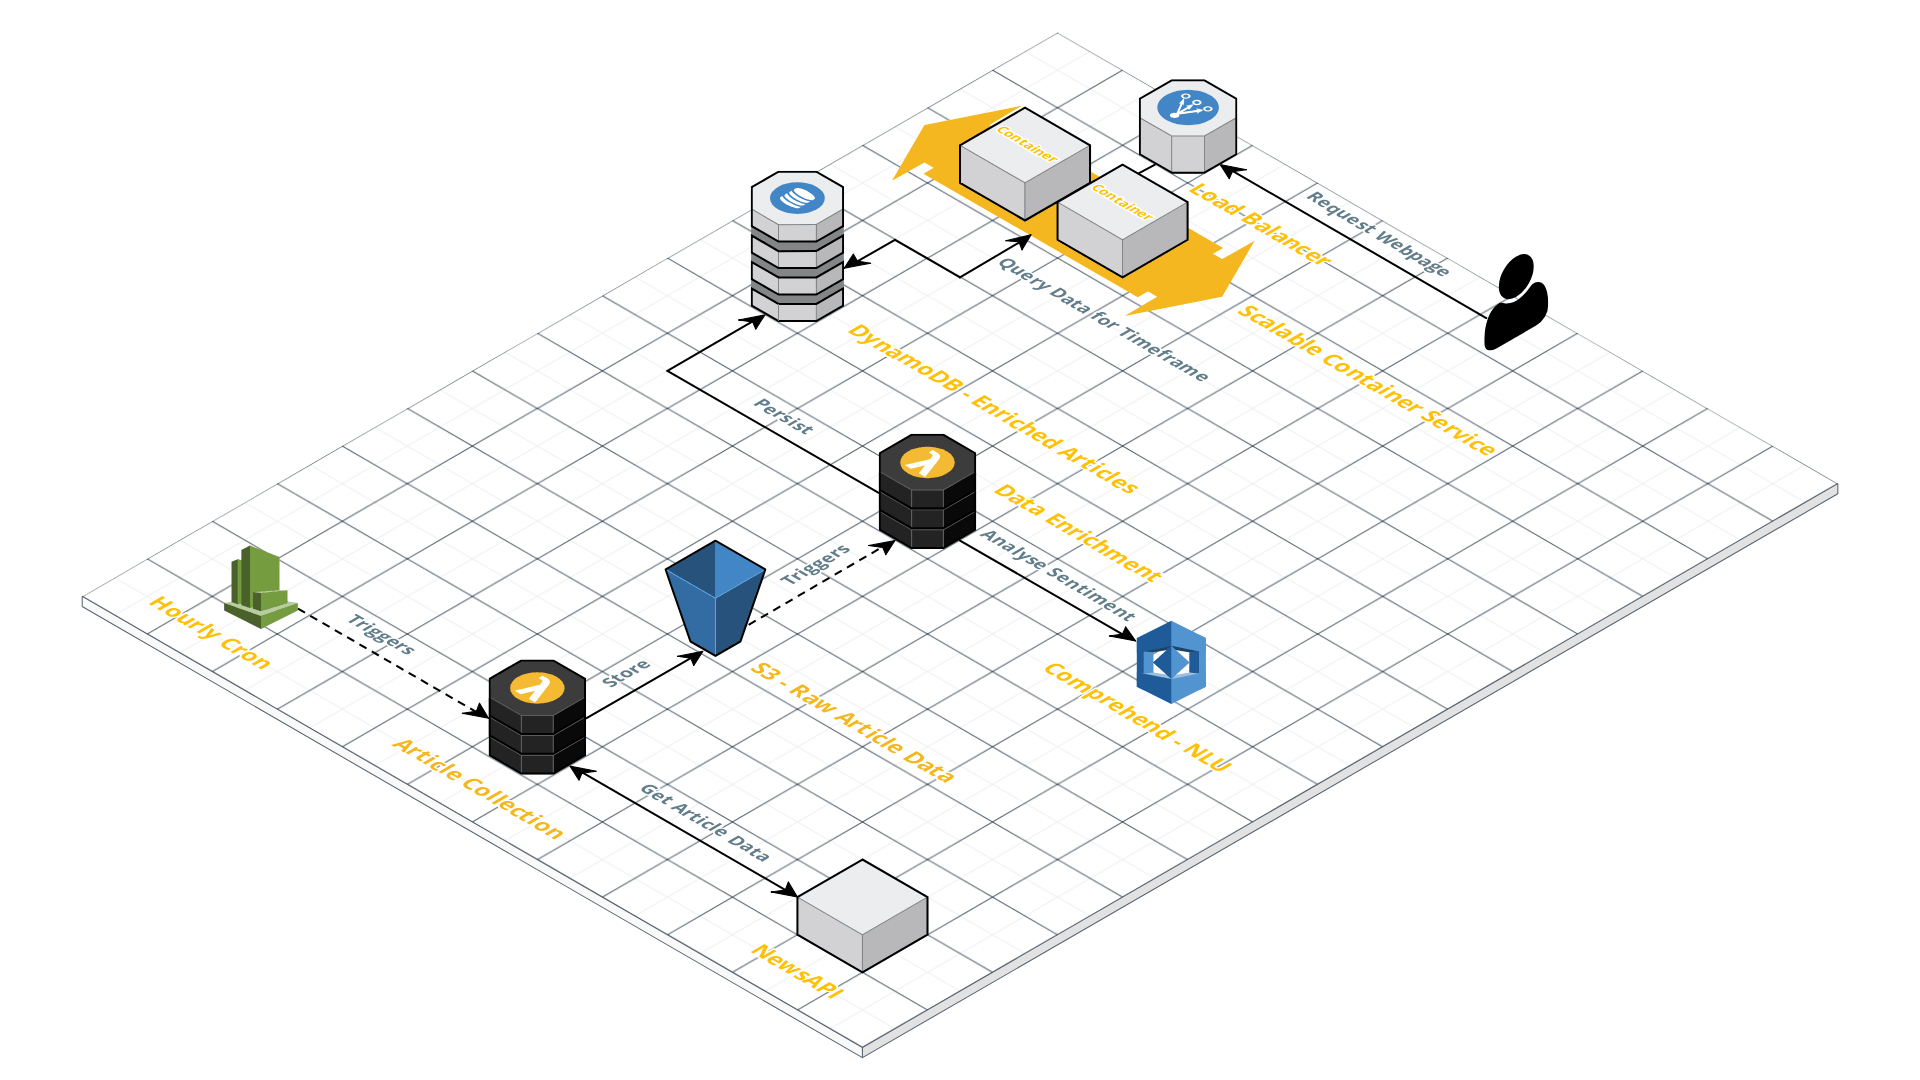
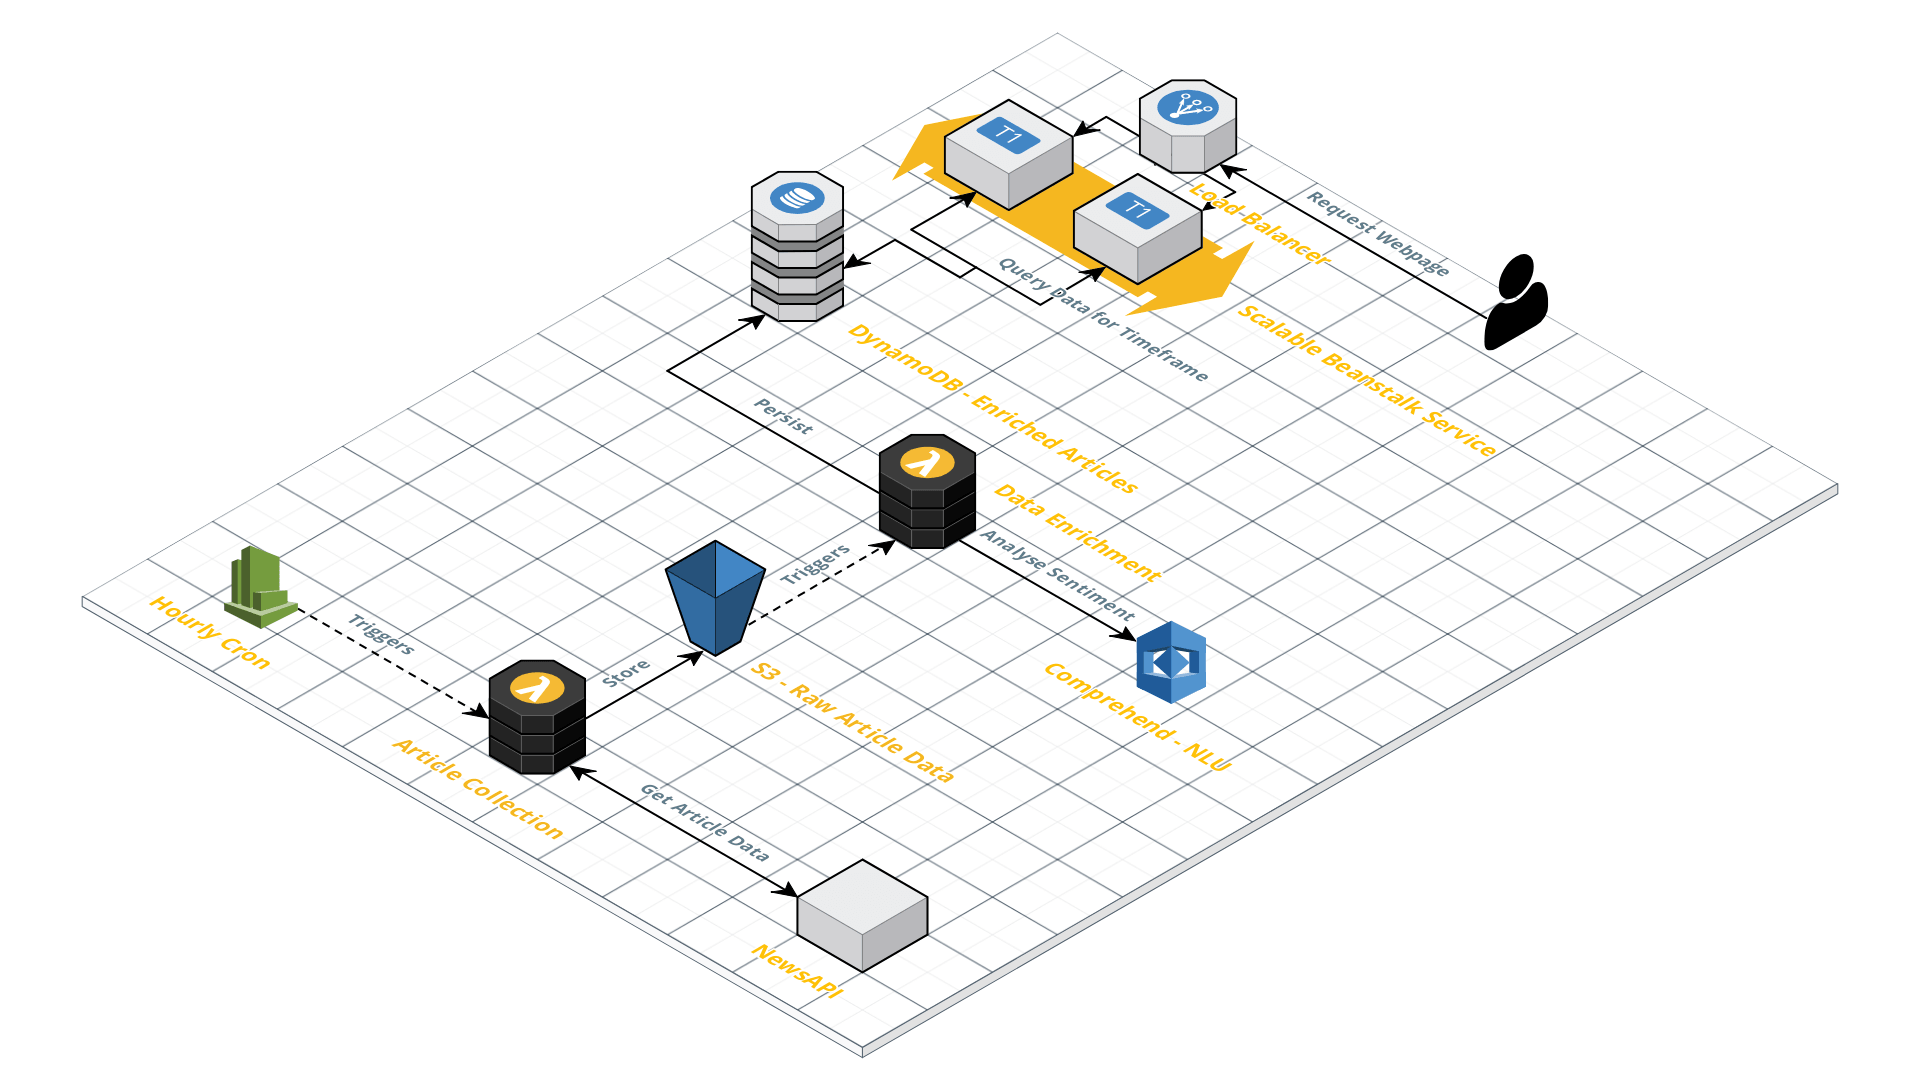
add sov_frontend setup for beanstalk

diff --git a/sov_frontend/public/javascripts/script.js b/sov_frontend/public/javascripts/script.js
@@ -3,14 +3,10 @@ window.addEventListener('load', function() {
   loadData('6h')
 })
 
-// TODO change to env data
-const dynamodb = new AWS.DynamoDB({
-  region: 'us-east-1',
-  accessKeyId: 'AKIAJ3BZBQHWBFIJ6XFA',
-  secretAccessKey: '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',
-});
+const dynamoTableName = process.env.TABLE_NAME
+const dynamodb = new AWS.DynamoDB()
 
-let timeframeData = []
+let timeFrameData = []
 let posArticles = []
 let neutArticles = []
 let negArticles = []
@@ -56,7 +52,7 @@ function updateExampleTable(articleList) {
     const publishedAt = article.publishedAt.S
 
     return `<tr>
-                <td><a href="${url}" style="color:${getSentimentColor(getSelectedSentiment())}">${title}</a></td>
+                <td><a href='${url}' style='color:${getSentimentColor(getSelectedSentiment())}'>${title}</a></td>
                 <td>${source}</td>  
                 <td>${moment(publishedAt).format('MM-DD-YYYY HH:mm')}</td>  
               </tr>
@@ -67,16 +63,16 @@ function updateExampleTable(articleList) {
 function queryDynamoDB(fromTS, untilTS) {
   return new Promise((res, rej) => {
     const params = {
-      TableName: "sov-article-data", // TODO change to env var
+      TableName: dynamoTableName,
       ExpressionAttributeValues: {
-        ":t1": {
+        ':t1': {
           S: fromTS.format('YYYY-MM-DDTHH:mm:ss')
         },
-        ":t2": {
+        ':t2': {
           S: untilTS.format('YYYY-MM-DDTHH:mm:ss')
         }
       },
-      FilterExpression: "publishedAt BETWEEN :t1 AND :t2"
+      FilterExpression: 'publishedAt BETWEEN :t1 AND :t2'
     }
 
     dynamodb.scan(params, (err, data) => {
@@ -86,7 +82,7 @@ function queryDynamoDB(fromTS, untilTS) {
       }
 
       res(data)
-    });
+    })
   })
 }
 
@@ -117,13 +113,13 @@ function loadData (timespan) {
 }
 
 function updateArticles(articles) {
-  timeframeData = articles
+  timeFrameData = articles
 
   const tmpPos = []
   const tmpNeut = []
   const tmpNeg = []
 
-  timeframeData.forEach(article => {
+  timeFrameData.forEach(article => {
     const sentiment = article.sentiment.S
 
     switch (sentiment) {
@@ -206,9 +202,9 @@ function updateBars() {
   const neutBar = document.getElementById('neutralBar')
   const negBar = document.getElementById('negativeBar')
 
-  const posBarWidth = Math.round(100 / timeframeData.length * posArticles.length)
-  const neutBarWidth = Math.round(100 / timeframeData.length * neutArticles.length)
-  const negBarWidth = Math.round(100 / timeframeData.length * negArticles.length)
+  const posBarWidth = Math.round(100 / timeFrameData.length * posArticles.length)
+  const neutBarWidth = Math.round(100 / timeFrameData.length * neutArticles.length)
+  const negBarWidth = Math.round(100 / timeFrameData.length * negArticles.length)
 
   posBar.style.width = `${posBarWidth}%`
   neutBar.style.width = `${neutBarWidth}%`

diff --git a/sov_frontend/public/index.html b/sov_frontend/public/index.html
@@ -10,7 +10,7 @@
 
       <!-- Bootstrap CSS -->
       <link rel="stylesheet" href="https://stackpath.bootstrapcdn.com/bootstrap/4.1.1/css/bootstrap.min.css" integrity="sha384-WskhaSGFgHYWDcbwN70/dfYBj47jz9qbsMId/iRN3ewGhXQFZCSftd1LZCfmhktB" crossorigin="anonymous">
-      <link rel="stylesheet" href="styles.css">
+      <link rel="stylesheet" href="stylesheets/style.css">
     </head>
 
     <body class="text-center">
@@ -81,6 +81,6 @@
       </footer>
       <script src="https://sdk.amazonaws.com/js/aws-sdk-2.270.1.min.js"></script>
       <script src="https://cdnjs.cloudflare.com/ajax/libs/moment.js/2.22.2/moment.min.js"></script>
-      <script src="script.js"></script>
+      <script src="javascripts/script.js"></script>
     </body>
 </html>

diff --git a/sov_frontend/app.js b/sov_frontend/app.js
@@ -1,0 +1,8 @@
+const PORT = process.env.PORT || 3000
+
+const path = require('path')
+const express = require('express')
+const app = express()
+
+app.use(express.static(path.join(__dirname, 'public')))
+app.listen(PORT, () => console.log('App successfully started'))

diff --git a/sov_frontend/public/stylesheets/style.css b/sov_frontend/public/stylesheets/style.css
@@ -133,7 +133,7 @@ h1 {
 
 #veganism {
     height: 150px;
-    content: url(assets/vegetarian-mark.svg);
+    content: url(../images/vegetarian-mark.svg);
     padding: 0;
     margin: 0;
     transform: translate(50px, 0);
